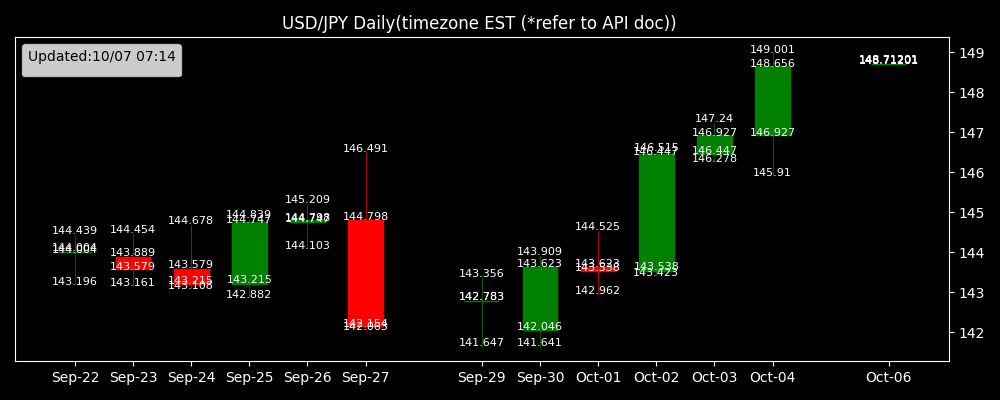
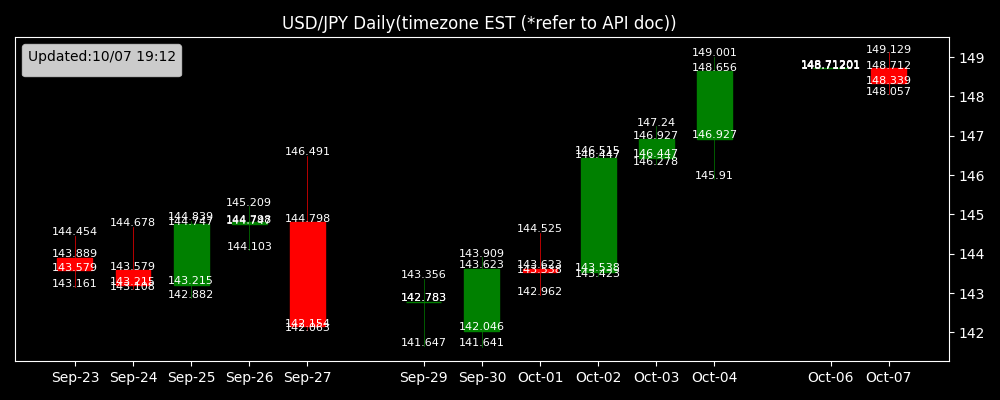
deploy: a56a06d99a4d8463b046e0d9719665abf5b507ea

diff --git a/docs/src/dashboard/marketinfo.html b/docs/src/dashboard/marketinfo.html
@@ -14,14 +14,16 @@
     </style>
 </head>
 <body>
-    <h3> 概況 (更新： 10/07 07:14 ) </h3>
-    <p>このデータをもとに、最近の為替市場の動向を分析してみましょう。2024年9月末から10月初旬にかけて、為替レートは全体として上昇傾向が見られます。9月末の142円台から10月4日には149円近くまで上昇しており、特に10月2日から4日にかけての急激な上昇が目立ちます。この期間における取引量も増加していることから、市場参加者の関心が高まった可能性があると考えられます。
+    <h3> 概況 (更新： 10/07 19:12 ) </h3>
+    <p>現在の為替市場の動向について、以下のように観測される。
 
-この上昇要因としては、以下のような可能性が考えられます。まず、最近の国際的な経済ニュースや金融政策の変更が影響しているかもしれません。具体的には米連邦準備制度（FRB）の金利政策に関連した発表や、日本銀行の金融政策の見通しに関するニュースが影響を与えることが考えられます。
+過去2週間のデータを基にすると、通貨の価格は総じて上昇基調にあるように見える。9月下旬では142円台から143円台を推移していたが、10月に入り146円を超え、その後150円近い水準に達している。この上昇は、特に10月初旬に顕著であり、10月4日から6日の間の大幅な上昇が目立つ。
 
-また、企業の決算発表や経済指標（例えば、雇用統計やGDP成長率）の公開に伴う投資家心理の変化が、為替レートに影響した可能性もあります。国際的な地政学的リスクや市場不確実性の変動もまた、為替市場に大きな影響を及ぼし得ます。
+この背景にはいくつかの要因が関与している可能性がある。一説には、米国の経済指標の強さがドル高を促進しているとされる。10月初旬には、米国労働市場の改善を示す統計が発表された可能性があり、それがドルの強化につながったかもしれない。また、日本国内の経済政策も円安要因として影響している可能性がある。
 
-ただし、この上昇が短期的な動きに留まるか、あるいは長期的なトレンドへと発展するかについては、今後の市場動向や経済指標の推移を注視する必要があります。為替相場は常に多くの要因によって影響を受けるため、断定的な見解を持つことは避け、引き続き市場の状況を慎重に観察することが重要です。</p>
+一方、ボラティリティが比較的高いことも観察される。9月27日には急落が見られ、その後の反発も顕著であったことから、市場の不安定さを示唆している。商いは比較的活発であるが、10月6日のように取引のない日もあり、市場参加者の動向が変動しやすい状態だと考えられる。
+
+今後の動向について、不確実性は高いものの、引き続き米国や日本の経済政策、国際的な経済環境の変化が為替に影響を与える可能性がある。ニュースや経済指標の発表に対して敏感な動きをする市場を注視する必要があるだろう。</p>
 
     <p>Text generated from ChatGPT API.</p>
 

diff --git a/docs/src/dashboard/forecast_text.html b/docs/src/dashboard/forecast_text.html
@@ -6,9 +6,14 @@
 </head>
 <body>
     <h3>今日の天気 (10-07 Mon)</h3>
-    <p>10月7日の東京の天気予報です。この日は基本的に晴れとなり、一日を通して雨の心配はほとんどありません。気温は21℃から26℃の範囲で、日中は快適です。
+    <p>こちらは天気予報の情報です:
 
-日照時間は約3時間36分（12,950秒）で、UVインデックスの最大値は5.55です。このUVインデックスは中程度の強さですので、特に正午から午後にかけては日差しが強くなる可能性があります。したがって、UV対策として日傘を使用することをおすすめします。</p>
-    (更新：10/07 07:14)
+- **天気:** 一日を通して晴天が続きます。午前中や午後に短時間の晴れ時雲が広がることがありますが、雨やシャワーの予報はありません。
+- **気温:** 日中の最高気温は28.0°C近くまで上がります。朝晩は温度が低く、21°C台となります。
+- **日照時間:** 全体で約6時間50分の日照が予測されています。
+- **UVインデックス:** 最大で5.5です。
+
+UVインデックスが5.5ですので、日中は日差しが強くなることがあります。このため、外出する際には日傘を持参することをお勧めします。特に正午前後の日差しが最も強い時間帯に注意してください。</p>
+    (更新：10/07 19:12)
 
 </html>
